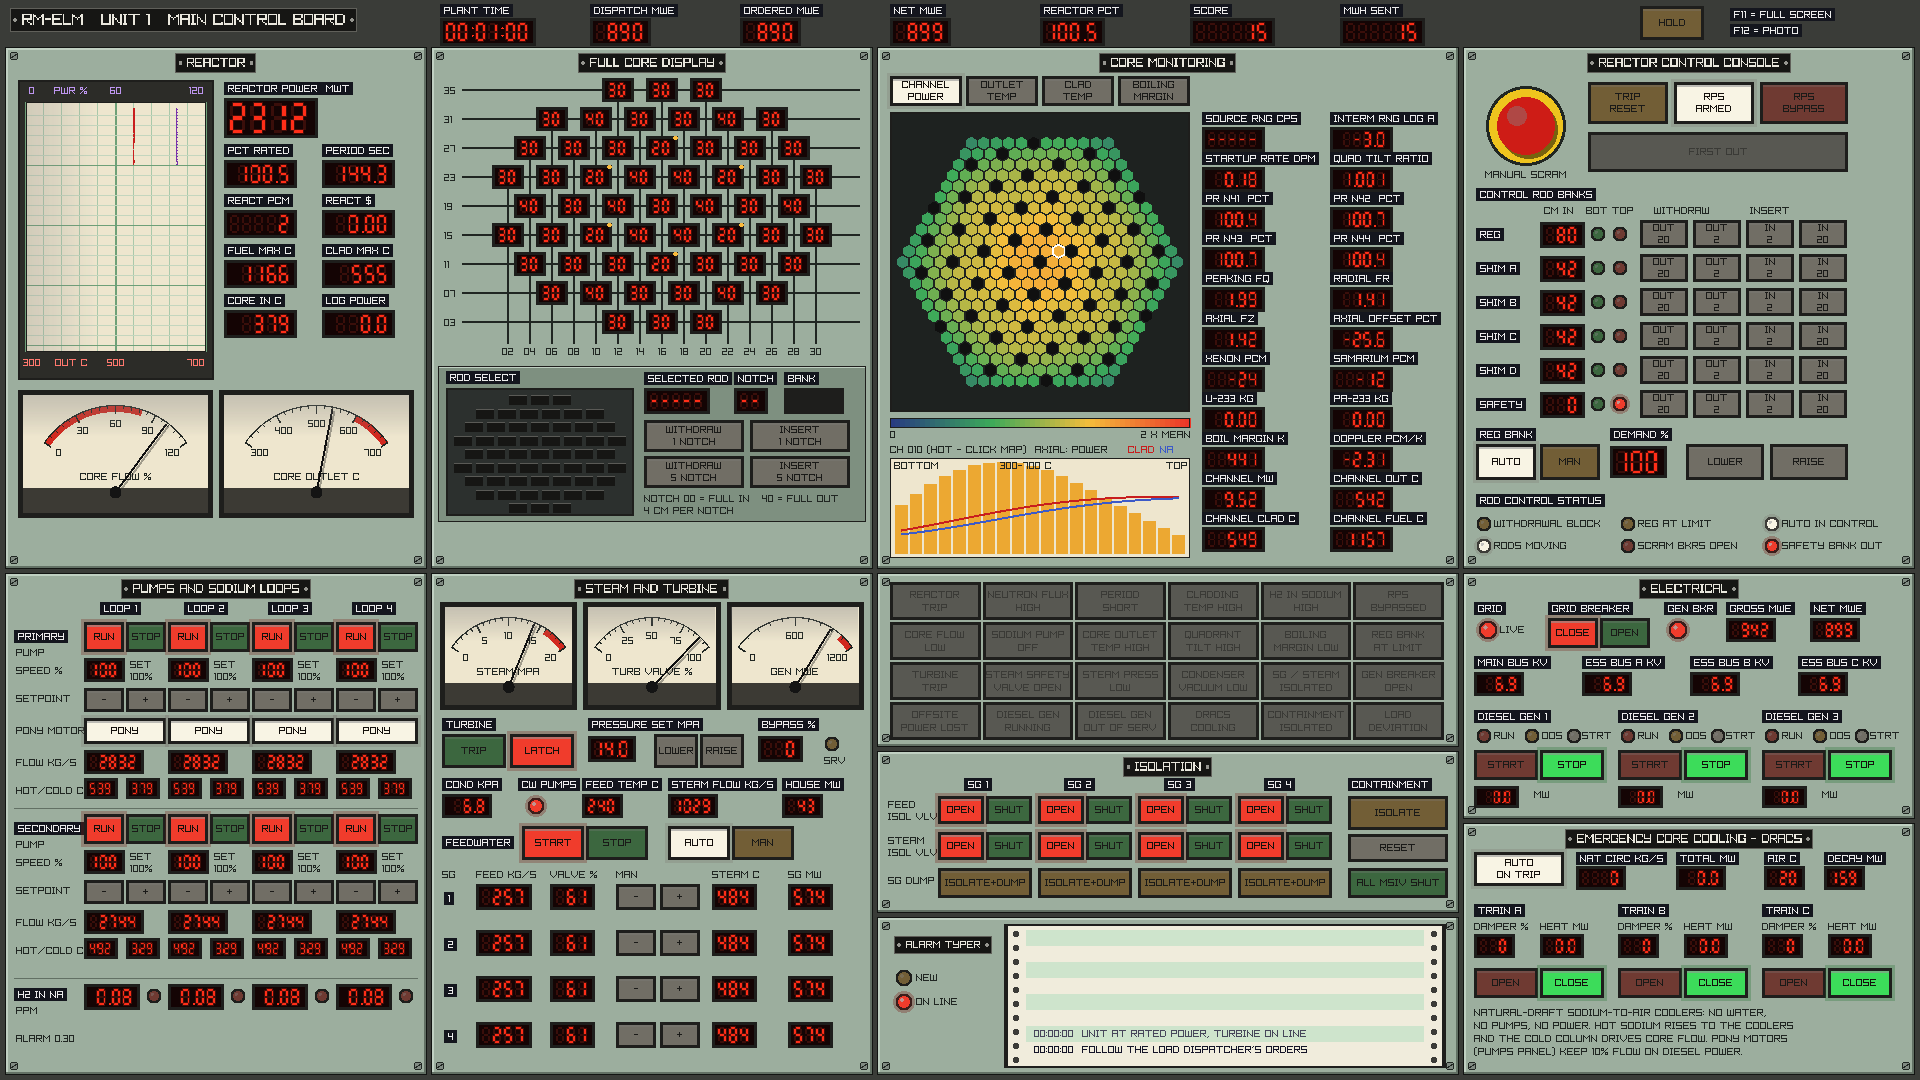
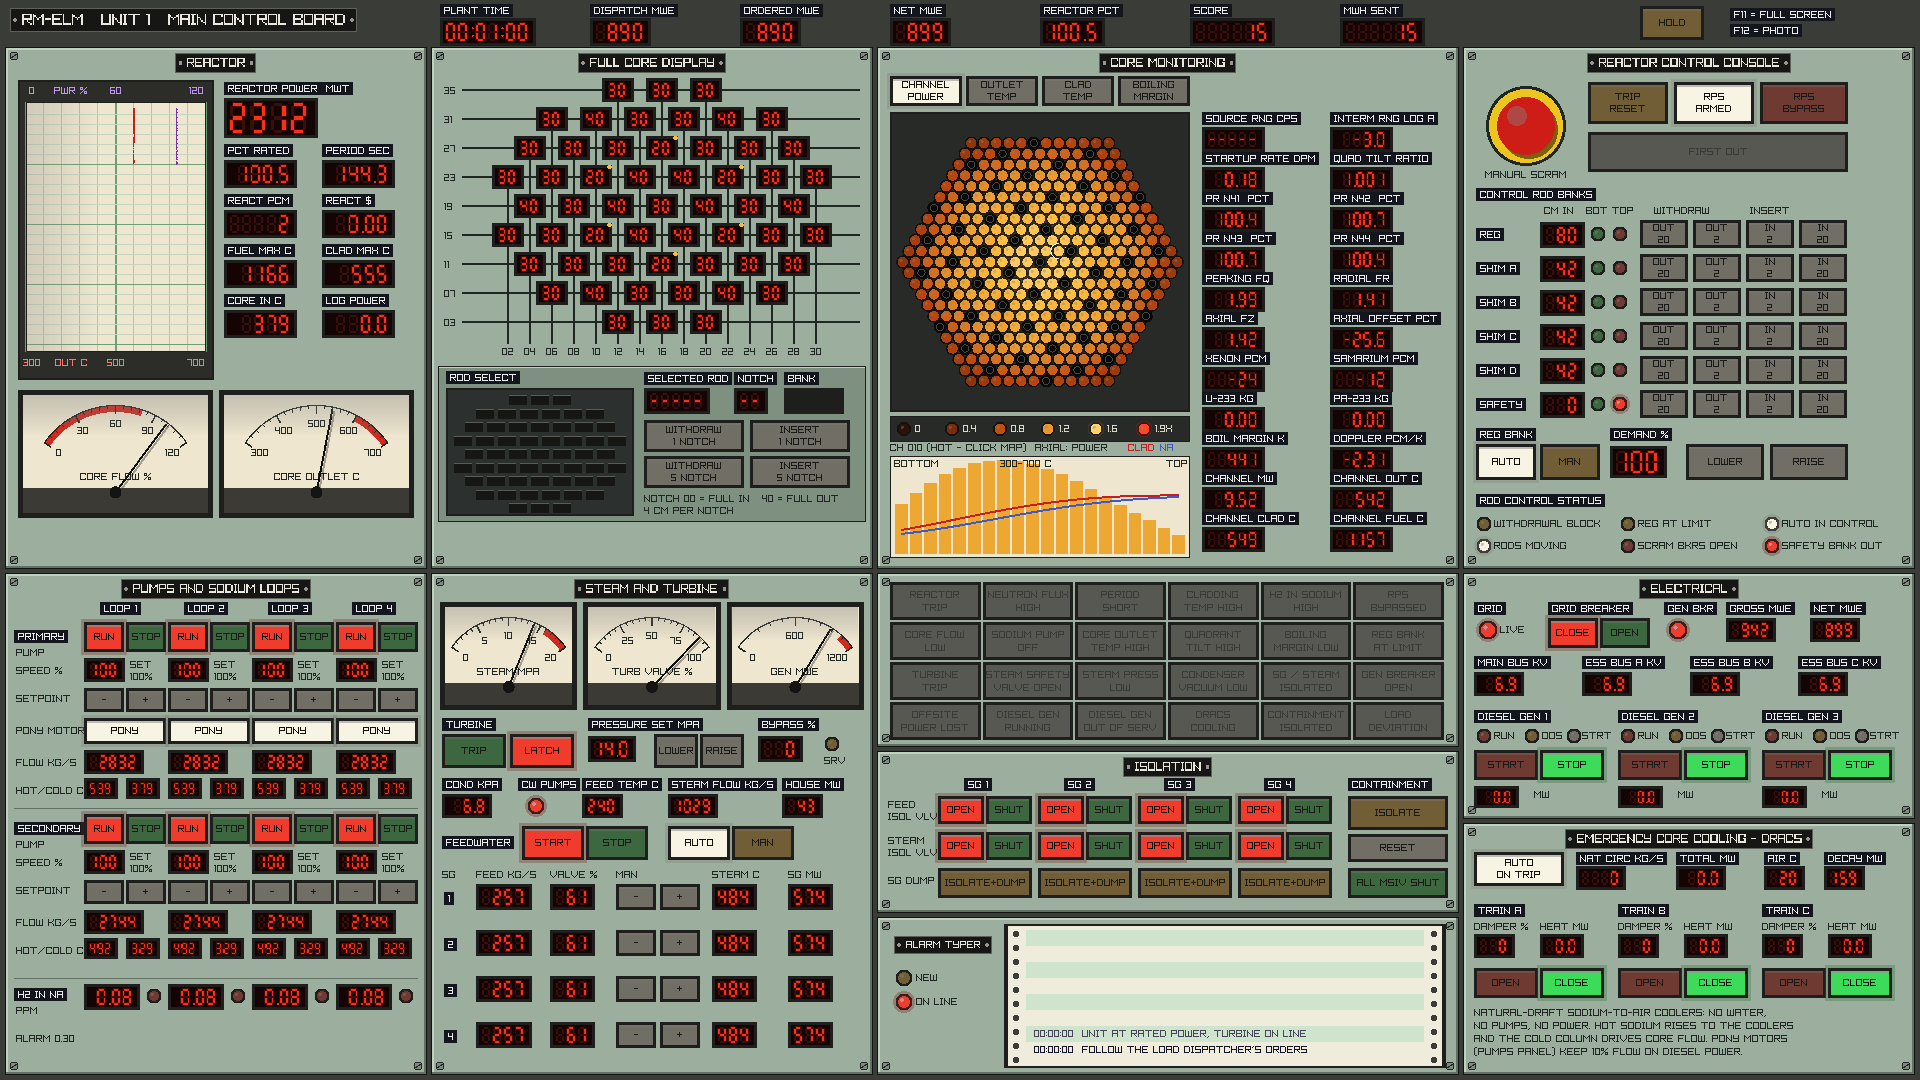
GUI: analog lamp core map
The core monitoring map is now a board of incandescent channel lamps
glowing from ember to yellow-white with the channel signal, a flashing red
lens past the alarm point, black plugs at the rod positions and a row of
reference lamps. Temperature scales narrowed to the operating band
(outlet 450-600 C, clad 450-700 C).

Claude-Session: https://claude.ai/code/session_01TmzsBVUwRHTHfPCPwT7qXi

Changed region(s): [[0.4688, 0.1222, 0.625, 0.4278], [0.0, 0.0917, 0.125, 0.3361], [0.5312, 0.4583, 0.5938, 0.4889]]

diff --git a/src/gui/rmelm_gui.c b/src/gui/rmelm_gui.c
@@ -658,18 +658,32 @@ static void core_statistics(void)
     CS.pa233_kg = pa * 1e24 * V * 233.0 / 6.022e23 / 1000.0;
 }
 
-/* dark blue -> green -> amber -> red */
-static Color heat(double f)
+/* one channel lamp of the core map: an incandescent bulb behind a clear
+ * lens, driven by the channel signal so it glows brighter as the value rises
+ * (f = 0..1); past the alarm point a red lens is switched in and flashes */
+static void map_lamp(Vector2 p, float rad, double f, int blink)
 {
-    static const Color st[4] = {{40, 60, 130, 255}, {60, 170, 90, 255}, {245, 190, 60, 255}, {235, 55, 40, 255}};
     if (f < 0) f = 0;
     if (f > 1) f = 1;
-    double s = f * 3;
-    int i = s >= 3 ? 2 : (int)s;
-    double t = s - i;
-    Color a = st[i], b = st[i + 1];
-    return (Color){(unsigned char)(a.r + (b.r - a.r) * t), (unsigned char)(a.g + (b.g - a.g) * t),
-                   (unsigned char)(a.b + (b.b - a.b) * t), 255};
+    DrawCircleV(p, rad, (Color){20, 18, 16, 255});                   /* socket */
+    float lr = rad * 0.78f;
+    if (f > 0.92) {
+        Color red = blink ? (Color){255, 70, 40, 255} : (Color){110, 26, 18, 255};
+        if (blink) DrawCircleV(p, rad + 1.5f, (Color){255, 60, 30, 70});
+        DrawCircleV(p, lr, red);
+    } else {
+        /* filament colour: dull ember -> orange -> yellow -> near white */
+        static const float K[4][4] = {{0.0f, 45, 18, 8}, {0.35f, 190, 70, 14}, {0.65f, 255, 190, 60}, {0.92f, 255, 248, 215}};
+        int k = f < K[1][0] ? 0 : (f < K[2][0] ? 1 : 2);
+        float t = (float)((f - K[k][0]) / (K[k + 1][0] - K[k][0]));
+        if (t > 1) t = 1;
+        Color c = {(unsigned char)(K[k][1] + (K[k + 1][1] - K[k][1]) * t), (unsigned char)(K[k][2] + (K[k + 1][2] - K[k][2]) * t),
+                   (unsigned char)(K[k][3] + (K[k + 1][3] - K[k][3]) * t), 255};
+        double g = f;
+        if (g > 0.5) DrawCircleV(p, rad + 1.5f, (Color){255, 220, 140, (unsigned char)(120 * (g - 0.5))});
+        DrawCircleV(p, lr, c);
+    }
+    DrawCircleV((Vector2){p.x - lr * 0.3f, p.y - lr * 0.3f}, lr * 0.28f, (Color){255, 255, 255, 60});
 }
 
 static double cm_value(int ch, double *lo, double *hi)
@@ -677,8 +691,8 @@ static double cm_value(int ch, double *lo, double *hi)
     double pref = RM_P_RATED / P->core.nchan;
     switch (cm_mode) {
     case 0: *lo = 0; *hi = 2.0; return CS.pch[ch] / pref;
-    case 1: *lo = 350; *hi = 600; return CS.tout[ch] - 273.15;
-    case 2: *lo = 350; *hi = 700; return CS.tclad[ch] - 273.15;
+    case 1: *lo = 450; *hi = 600; return CS.tout[ch] - 273.15;
+    case 2: *lo = 450; *hi = 700; return CS.tclad[ch] - 273.15;
     default: *lo = 0; *hi = 1; return 1.0 - fmin(CS.margin[ch], 600.0) / 600.0;
     }
 }
@@ -703,39 +717,49 @@ static void draw_coremon(Rectangle r)
 
     /* core map */
     Rectangle mp = {r.x + 12, r.y + 64, 300, 300};
-    DrawRectangleRec(mp, (Color){30, 34, 32, 255});
+    DrawRectangleRec(mp, (Color){40, 42, 40, 255});
     DrawRectangleLinesEx(mp, 2, BEZEL);
     Vector2 o = {mp.x + mp.width / 2, mp.y + mp.height / 2};
     const float sc = 0.78f;
     float hr = RM_PITCH * sc / sqrtf(3.0f);
     int hover = -1;
     int sel = cm_sel >= 0 ? cm_sel : CS.hot;
+    int blink = ((int)(GetTime() * 3)) & 1;
     for (int col = 0; col < g->n; col++) {
         if (g->ring[col] > RM_CORE_RINGS) continue;
         double x, y;
         rm_hexgrid_xy(g, col, RM_PITCH * sc, &x, &y);
         Vector2 p = {o.x + (float)x, o.y + (float)y};
         if (c->coltype[col] == COL_CTRL) {
-            DrawPoly(p, 6, hr - 0.8f, 30, (Color){16, 16, 16, 255});
+            /* control rod thimble: black blanking plug */
+            DrawCircleV(p, hr - 0.6f, (Color){10, 10, 10, 255});
+            DrawCircleLinesV(p, hr * 0.5f, (Color){70, 70, 66, 255});
             continue;
         }
         int ch = c->chan_of_col[col];
         double lo, hi, v = cm_value(ch, &lo, &hi);
-        DrawPoly(p, 6, hr - 0.8f, 30, heat((v - lo) / (hi - lo)));
-        if (ch == sel) DrawPolyLinesEx(p, 6, hr + 0.5f, 30, 2, WHITE);
+        map_lamp(p, hr - 0.6f, (v - lo) / (hi - lo), blink);
+        if (ch == sel) DrawCircleLinesV(p, hr + 0.6f, WHITE);
         if (CheckCollisionPointCircle(m, p, hr * 0.9f)) {
             hover = ch;
             if (IsMouseButtonPressed(MOUSE_BUTTON_LEFT)) cm_sel = cm_sel == ch ? -1 : ch;
         }
     }
-    /* scale */
-    Rectangle sb = {mp.x, mp.y + mp.height + 6, mp.width, 10};
-    for (int i = 0; i < 60; i++)
-        DrawRectangleRec((Rectangle){sb.x + sb.width * i / 60, sb.y, sb.width / 60 + 1, sb.height}, heat(i / 59.0));
+    /* reference lamps: what each glow means in the selected mode */
+    Rectangle sb = {mp.x, mp.y + mp.height + 4, mp.width, 26};
+    DrawRectangleRec(sb, (Color){40, 42, 40, 255});
     DrawRectangleLinesEx(sb, 1, BEZEL);
-    const char *sl[4][2] = {{"0", "2 X MEAN"}, {"350 C", "600 C"}, {"350 C", "700 C"}, {"600 K", "0 K"}};
-    text(sl[cm_mode][0], sb.x, sb.y + 12, 10, INK);
-    text(sl[cm_mode][1], sb.x + sb.width - MeasureText(sl[cm_mode][1], 10), sb.y + 12, 10, INK);
+    static const char *ref[4][6] = {
+        {"0", "0.4", "0.8", "1.2", "1.6", "1.9X"},
+        {"450", "478", "505", "533", "560", "588C"},
+        {"450", "496", "542", "588", "634", "680C"},
+        {"600", "480", "360", "240", "120", "50K"},
+    };
+    for (int i = 0; i < 6; i++) {
+        float lx = sb.x + 14 + i * 48;
+        map_lamp((Vector2){lx, sb.y + 13}, 7, i < 5 ? i / 5.0 * 0.92 : 0.95, blink);
+        text(ref[cm_mode][i], lx + 11, sb.y + 8, 10, (Color){220, 216, 200, 255});
+    }
 
 
     /* axial profile of the selected channel: power bars, clad and sodium lines */

diff --git a/README.md b/README.md
@@ -68,8 +68,12 @@ The top row is the reactor:
   rods are named by grid coordinates such as 16-19). The rod select matrix
   below it has one pushbutton per rod: select one, then WITHDRAW/INSERT it.
 - **Core monitoring**:
-  - A map of all 342 fuel channels, switchable between channel power,
-    outlet temperature, cladding temperature and sodium boiling margin.
+  - An analog lamp map of all 342 fuel channels: each channel is an
+    incandescent lamp that glows from a dull ember to yellow-white as its
+    value rises, and switches to a flashing red lens past the alarm point.
+    It is switchable between channel power, outlet temperature (450-600 C),
+    cladding temperature (450-700 C) and sodium boiling margin. Control rod
+    positions are black blanking plugs.
   - The axial power, clad and sodium profile of the hot channel, or of any
     channel you click.
   - Nuclear instruments: source range (cps), intermediate range (log amps),
